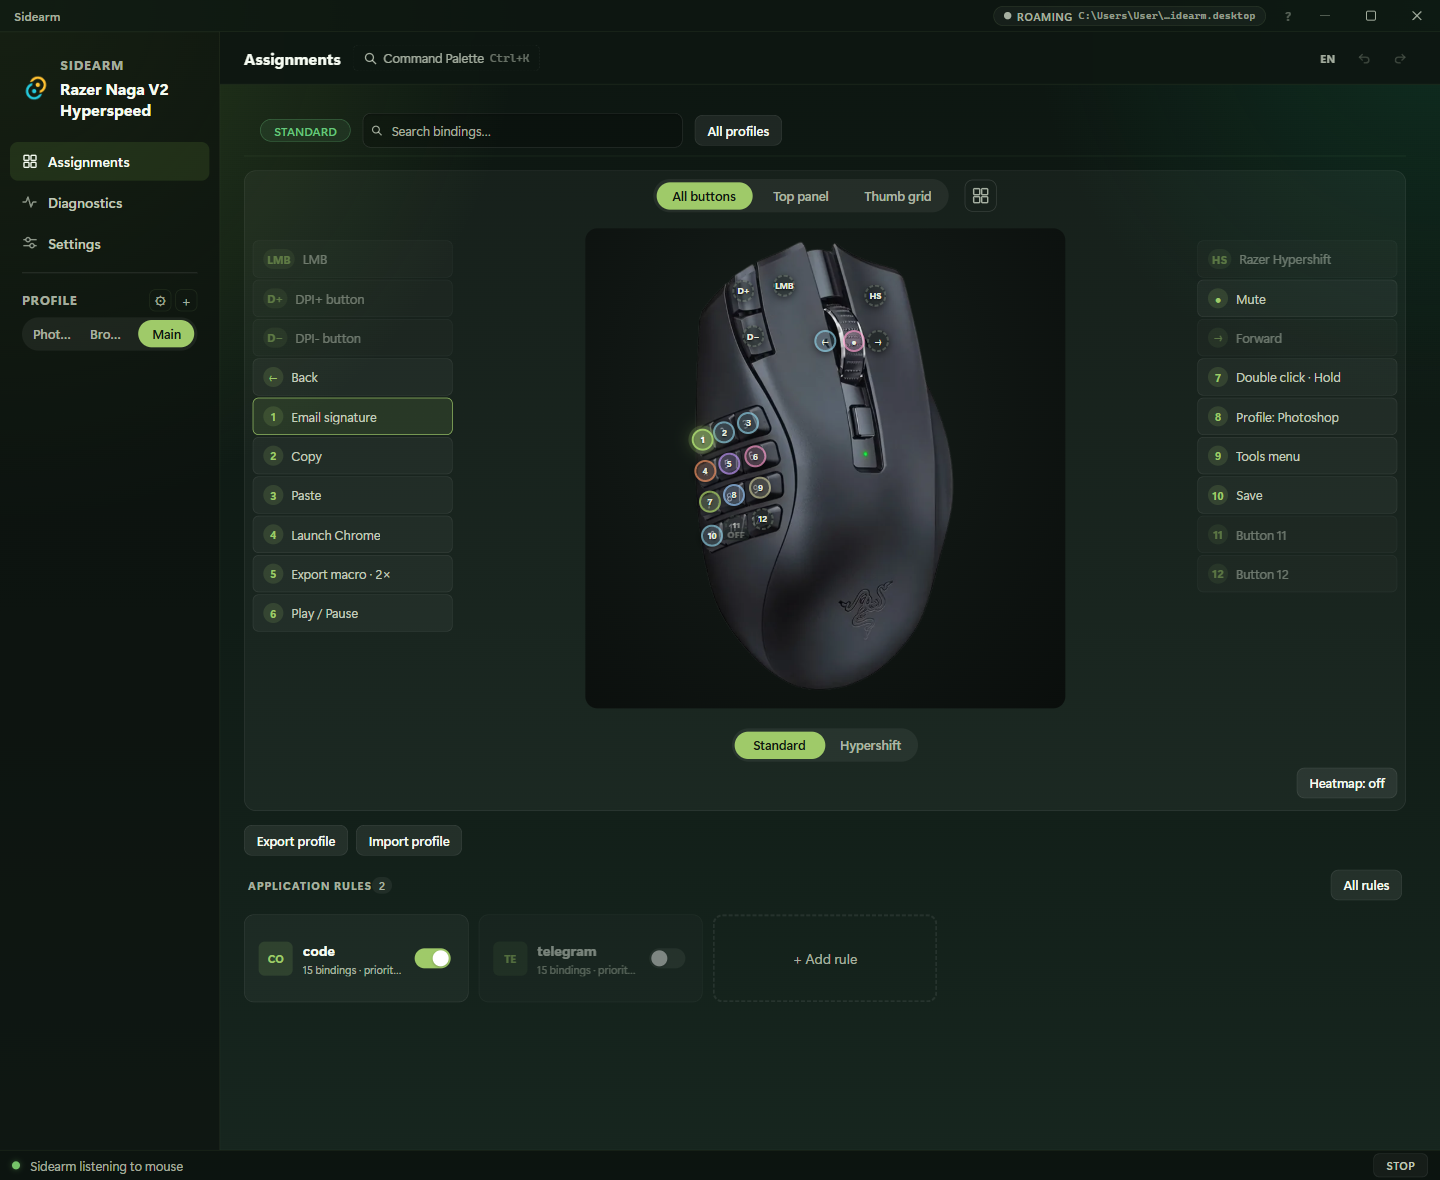
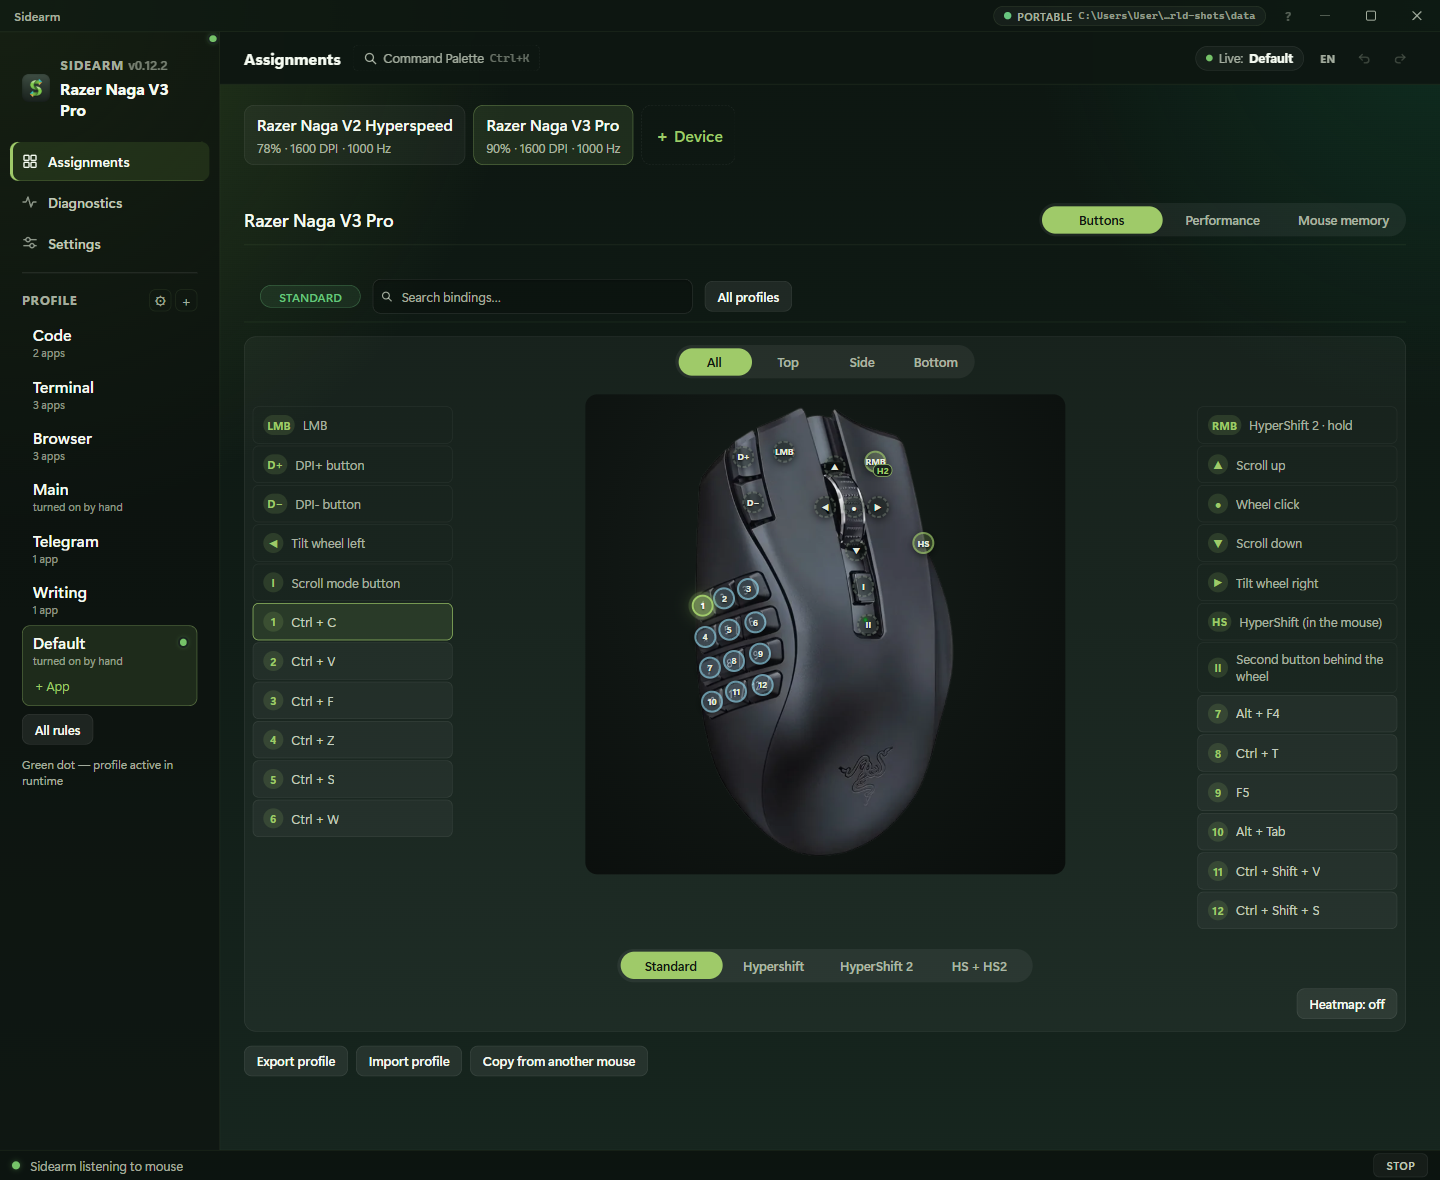
README: press patterns, four layers and HyperShift 2; new main screenshots (two mice, V3 with HyperShift 2) [skip ci]

diff --git a/README.md b/README.md
@@ -31,7 +31,7 @@ Synapse completely.
 | Synapse feature | Sidearm |
 |---|---|
 | Remap the 12 thumb buttons, top buttons, wheel, Mouse 4/5 | ✅ written into the mouse's onboard memory |
-| Hypershift (second layer while a button is held) | ✅ any trigger button: right / left / wheel click / Mouse 4 / Mouse 5 |
+| Hypershift (second layer while a button is held) | ✅ any trigger button: right / left / wheel click / Mouse 4 / Mouse 5; on a held press only, so a quick press stays a normal click |
 | Keyboard shortcuts on buttons | ✅ including modifier-only holds (push-to-talk Alt+Shift) |
 | Macros | ✅ with timing, text and launch steps — more than Synapse |
 | DPI and polling rate (125 / 500 / 1000 Hz) | ✅ per profile, applied on profile switch |
@@ -48,12 +48,16 @@ Synapse completely.
   mouse has no onboard record for tilt. It works while Sidearm runs.
 - Text snippets, macros and app launches only run while Sidearm runs (the mouse
   firmware can only play keys and mouse buttons on its own).
+- The HyperShift 2 and HS + HS2 layers work only while Sidearm runs (the mouse's own
+  memory has two layers).
 
 ### More than Synapse
 
 | Feature | Description |
 |---|---|
 | **9 action types** | Shortcut, mouse action, text snippet, macro, app launch, media key, profile switch, context menu, disable |
+| **Press patterns** | Every button has its own action for a press, a hold, a double press and a triple press |
+| **Four layers** | Standard, HyperShift, **HyperShift 2** and **HS + HS2**. On the Naga V3 Pro the right button holds HyperShift 2, set per profile: a quick press is still a right click, and profiles without it keep the right button as it is (holding it in games works). Only the V3's right button switches the layer — a touchpad or another mouse keeps clicking normally. Held together with the ring-finger HyperShift button, it opens the fourth layer |
 | **Per-app profiles** | Excel, VS Code, the browser — each gets its own layout, switched automatically |
 | **Snippet library** | Reusable text snippets shared between buttons |
 | **Live diagnostics** | Press a button and see how it resolves: window → profile → binding → action |
@@ -65,10 +69,11 @@ Synapse completely.
 
 - **Razer Naga V2 HyperSpeed** — full native support (onboard memory, DPI, polling rate, battery).
 - **Razer Naga V3 Pro** (2.4 GHz receiver, 12-button side plate) — full native support:
-  side and top buttons, wheel, the HyperShift button under the ring finger, DPI, battery,
-  and its onboard profile slots — each Sidearm profile can be saved into a slot on exit.
-  Works together with a V2 HyperSpeed: each mouse keeps its own HyperShift layer, and
-  assignments can be copied from one mouse to the other.
+  side and top buttons, wheel, the HyperShift button under the ring finger, HyperShift 2
+  on the right button, DPI, battery, and its onboard profile slots — each Sidearm profile
+  can be saved into a slot on exit. Works together with a V2 HyperSpeed: each mouse keeps
+  its own HyperShift layer, a newly connected mouse offers to copy the other one's
+  assignments, and assignments can be copied between the mice at any time.
 - **Razer Naga V2 Pro, Naga Pro, Naga X** — recognised: DPI, polling rate and battery
   work, the buttons work as a custom device. **Own one?** Press **Help verify** on the
   mouse's Performance tab: Sidearm reads the mouse (without changing it) and opens a
@@ -153,7 +158,7 @@ Synapse, Razer Central и фоновых служб Razer. Synapse можно у
 | Функция Synapse | Sidearm |
 |---|---|
 | Переназначение 12 боковых, верхних кнопок, колеса, Mouse 4/5 | ✅ записывается во встроенную память мыши |
-| Hypershift (второй слой, пока зажата кнопка) | ✅ любая кнопка-триггер: правая / левая / колесо / Mouse 4 / Mouse 5 |
+| Hypershift (второй слой, пока зажата кнопка) | ✅ любая кнопка-триггер: правая / левая / колесо / Mouse 4 / Mouse 5; можно только на удержание — короткое нажатие остаётся обычным кликом |
 | Сочетания клавиш на кнопках | ✅ включая удержание одних модификаторов (push-to-talk Alt+Shift) |
 | Макросы | ✅ с задержками, вставкой текста и запуском программ — больше, чем в Synapse |
 | DPI и частота опроса (125 / 500 / 1000 Гц) | ✅ свои для каждого профиля |
@@ -166,19 +171,36 @@ Synapse, Razer Central и фоновых служб Razer. Synapse можно у
 ### Пока не поддерживается
 
 - Обновление прошивки и привязка беспроводного донгла — нужны утилиты Razer.
+- Слои HyperShift 2 и «HS + HS2» работают только с запущенным Sidearm (в памяти мыши
+  два слоя).
 - Горизонтальная прокрутка (наклон колеса) на Hypershift при **закрытом** Sidearm —
   у мыши нет для наклона записи в памяти. С запущенным Sidearm работает.
 - Текстовые сниппеты, макросы и запуск программ работают только с запущенным
   Sidearm (сама мышь умеет только клавиши и кнопки мыши).
 
+### Больше, чем Synapse
+
+| Возможность | Описание |
+|---|---|
+| **9 типов действий** | Сочетание клавиш, действие мыши, текстовый сниппет, макрос, запуск программы, медиаклавиша, смена профиля, контекстное меню, отключение |
+| **Способы нажатия** | У каждой кнопки своё действие на нажатие, зажатие, двойное и тройное нажатие |
+| **Четыре слоя** | Стандартный, HyperShift, **HyperShift 2** и **HS + HS2**. На Naga V3 Pro HyperShift 2 включает зажатая правая кнопка, свой в каждом профиле: короткое нажатие остаётся правым кликом, а в профилях без него правая кнопка работает как обычно (удержание в играх не ломается). Слой переключает только правая кнопка V3 — тачпад и другие мыши кликают как обычно. Вместе с кнопкой HyperShift под безымянным пальцем открывается четвёртый слой |
+| **Профили под приложения** | Excel, VS Code, браузер — у каждого своя раскладка, переключается автоматически |
+| **Библиотека сниппетов** | Тексты, которые можно повесить на несколько кнопок |
+| **Живая диагностика** | Нажмите кнопку и увидите цепочку: окно → профиль → назначение → действие |
+| **Тепловая карта** | Какими кнопками вы пользуетесь на самом деле |
+| **Экранные уведомления** | Смена профиля видна в углу экрана |
+| **Portable** | Одна папка, без установщика, настройки лежат рядом с exe |
+
 ### Поддерживаемые устройства
 
 - **Razer Naga V2 HyperSpeed** — полная поддержка (память мыши, DPI, частота опроса, заряд).
 - **Razer Naga V3 Pro** (приёмник 2,4 ГГц, панель на 12 кнопок) — полная поддержка: боковые и
-  верхние кнопки, колесо, кнопка HyperShift под безымянным пальцем, DPI, заряд и слоты
-  профилей в памяти мыши — каждый профиль Sidearm можно сохранить в слот при выходе.
-  Работает вместе с V2 HyperSpeed: у каждой мыши свой слой HyperShift, назначения можно
-  скопировать с одной мыши на другую.
+  верхние кнопки, колесо, кнопка HyperShift под безымянным пальцем, HyperShift 2 на правой
+  кнопке, DPI, заряд и слоты профилей в памяти мыши — каждый профиль Sidearm можно сохранить
+  в слот при выходе. Работает вместе с V2 HyperSpeed: у каждой мыши свой слой HyperShift,
+  новая мышь при подключении предлагает скопировать назначения другой, а копировать их между
+  мышами можно в любой момент.
 - **Razer Naga V2 Pro, Naga Pro, Naga X** — распознаются: DPI, частота опроса и заряд
   работают, кнопки — как у своего устройства. **Есть такая мышь?** Нажмите
   **«Помочь проверить»** на вкладке мыши «Производительность»: Sidearm прочитает мышь (ничего не меняя) и
